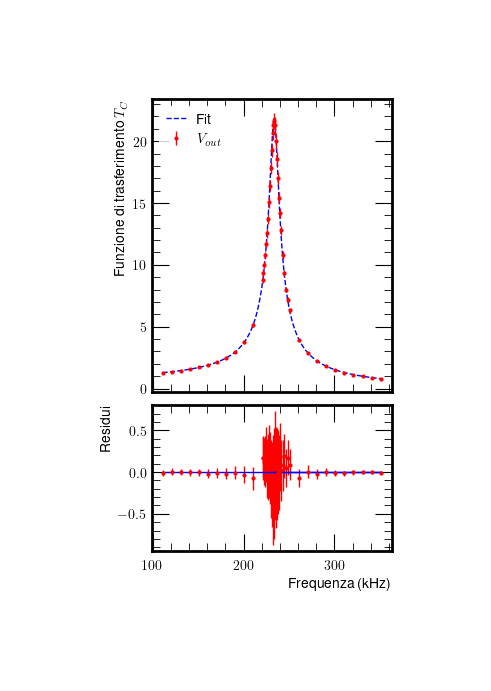
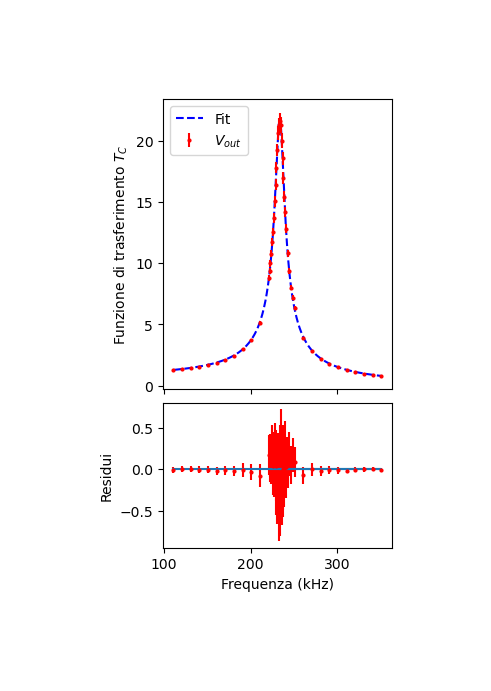
mod

Changed region(s): [[0.1833, 0.1216, 0.8248, 0.8509], [0.6415, 0.1216, 0.7943, 0.152], [0.611, 0.4863, 0.6415, 0.5166]]

diff --git a/RLC freq/emilio/prof con i nostri dati/RLC_Cres.py b/RLC freq/emilio/prof con i nostri dati/RLC_Cres.py
@@ -8,45 +8,6 @@ import matplotlib.colors as colors
 import multiprocessing.pool
 
 
-# settaggio globale grafici    
-#print(plt.style.available)
-#plt.style.use('classic')
-plt.style.use(hep.style.ROOT)
-params = {'legend.fontsize': '10',
-         'legend.loc': 'upper right',
-          'legend.frameon':       'True',
-          'legend.framealpha':    '0.8',      # legend patch transparency
-          'legend.facecolor':     'w', # inherit from axes.facecolor; or color spec
-          'legend.edgecolor':     'w',      # background patch boundary color
-          'figure.figsize': (6, 4),
-         'axes.labelsize': '10',
-         'figure.titlesize' : '14',
-         'axes.titlesize':'12',
-         'xtick.labelsize':'10',
-         'ytick.labelsize':'10',
-         'lines.linewidth': '1',
-         'text.usetex': True,
-#         'axes.formatter.limits': '-5, -3',
-         'axes.formatter.min_exponent': '2',
-#         'axes.prop_cycle': cycler('color', 'bgrcmyk')
-         'figure.subplot.left':'0.125',
-         'figure.subplot.bottom':'0.125',
-         'figure.subplot.right':'0.925',
-         'figure.subplot.top':'0.925',
-         'figure.subplot.wspace':'0.1',
-         'figure.subplot.hspace':'0.1',
-         'figure.constrained_layout.use' : True
-          }
-plt.rcParams.update(params)
-plt.rcParams['axes.prop_cycle'] = cycler(color=['b','g','r','c','m','y','k'])
-
-# Enable debug mode
-DEB = False
-
-
-# Function definition
-
-
 def fitf_C(x, A, B, C):
     omega = 2.0 * np.pi * x * 1e3  # input in kHz
     fitval = A / np.sqrt((1-omega**2/B**2)**2+1/C**2*omega**2/B**2)

diff --git a/RLC freq/emilio/passabanda.py b/RLC freq/emilio/passabanda.py
@@ -51,14 +51,18 @@ f0_stima = f0_stima / (2.0 * np.pi)
 perr = np.sqrt(np.diag(pcov))
 print( ' ampiezza = {a:.3f} +/- {b:.3f} \n f_0 = {c:.1f} +/- {d:.1f} kHz \n Q-valore = {e:.1f} +/- {f:.1f}'.format(a=ampiezza, b=perr[0],c=f0_stima/(1000),d=perr[1]/1000,e=Qvalue,f=perr[2]))
 
-plt.xscale('log')
-plt.yscale('log')
-plt.errorbar(f, A, yerr=sigma_A, fmt='o',ms=5, color='blue')
-plt.plot(f, fitf_R(f, *popt), color='red', lw=1.5, label='fit')
-plt.vlines(f0_stima, 0, max(A), colors='red', linestyles='--', lw=1.5)
-plt.hlines(fdelta, min(f), max(f), colors='green', linestyles='--', lw=1.5)
+fig, ax = plt.subplots(2, 1, figsize=(5, 4),sharex=True, constrained_layout = True, height_ratios=[2, 1])
+#plt.xscale('log')
+#plt.yscale('log')
+ax[0].errorbar(f, A, yerr=sigma_A, fmt='o',ms=5, color='blue')
+ax[0].plot(f, fitf_R(f, *popt), color='red', lw=1.5, label='fit')
+ax[0].vlines(f0_stima, 0, max(A), colors='red', linestyles='--', lw=1.5)
+ax[0].hlines(fdelta, min(f), max(f), colors='green', linestyles='--', lw=1.5)
 #plt.errorbar(f, phi, yerr=phi_errL, fmt='o',ms=2,color='green')
 
+
+residui = A - fitf_R(f, *popt)
+ax[1].errorbar(f, residui, yerr=sigma_A, fmt='o',ms=5, color='blue')
 plt.show()
 
 plt.errorbar(f, v_in, yerr=sigma_A, fmt='o',ms=5, color='blue', label='Vin')
